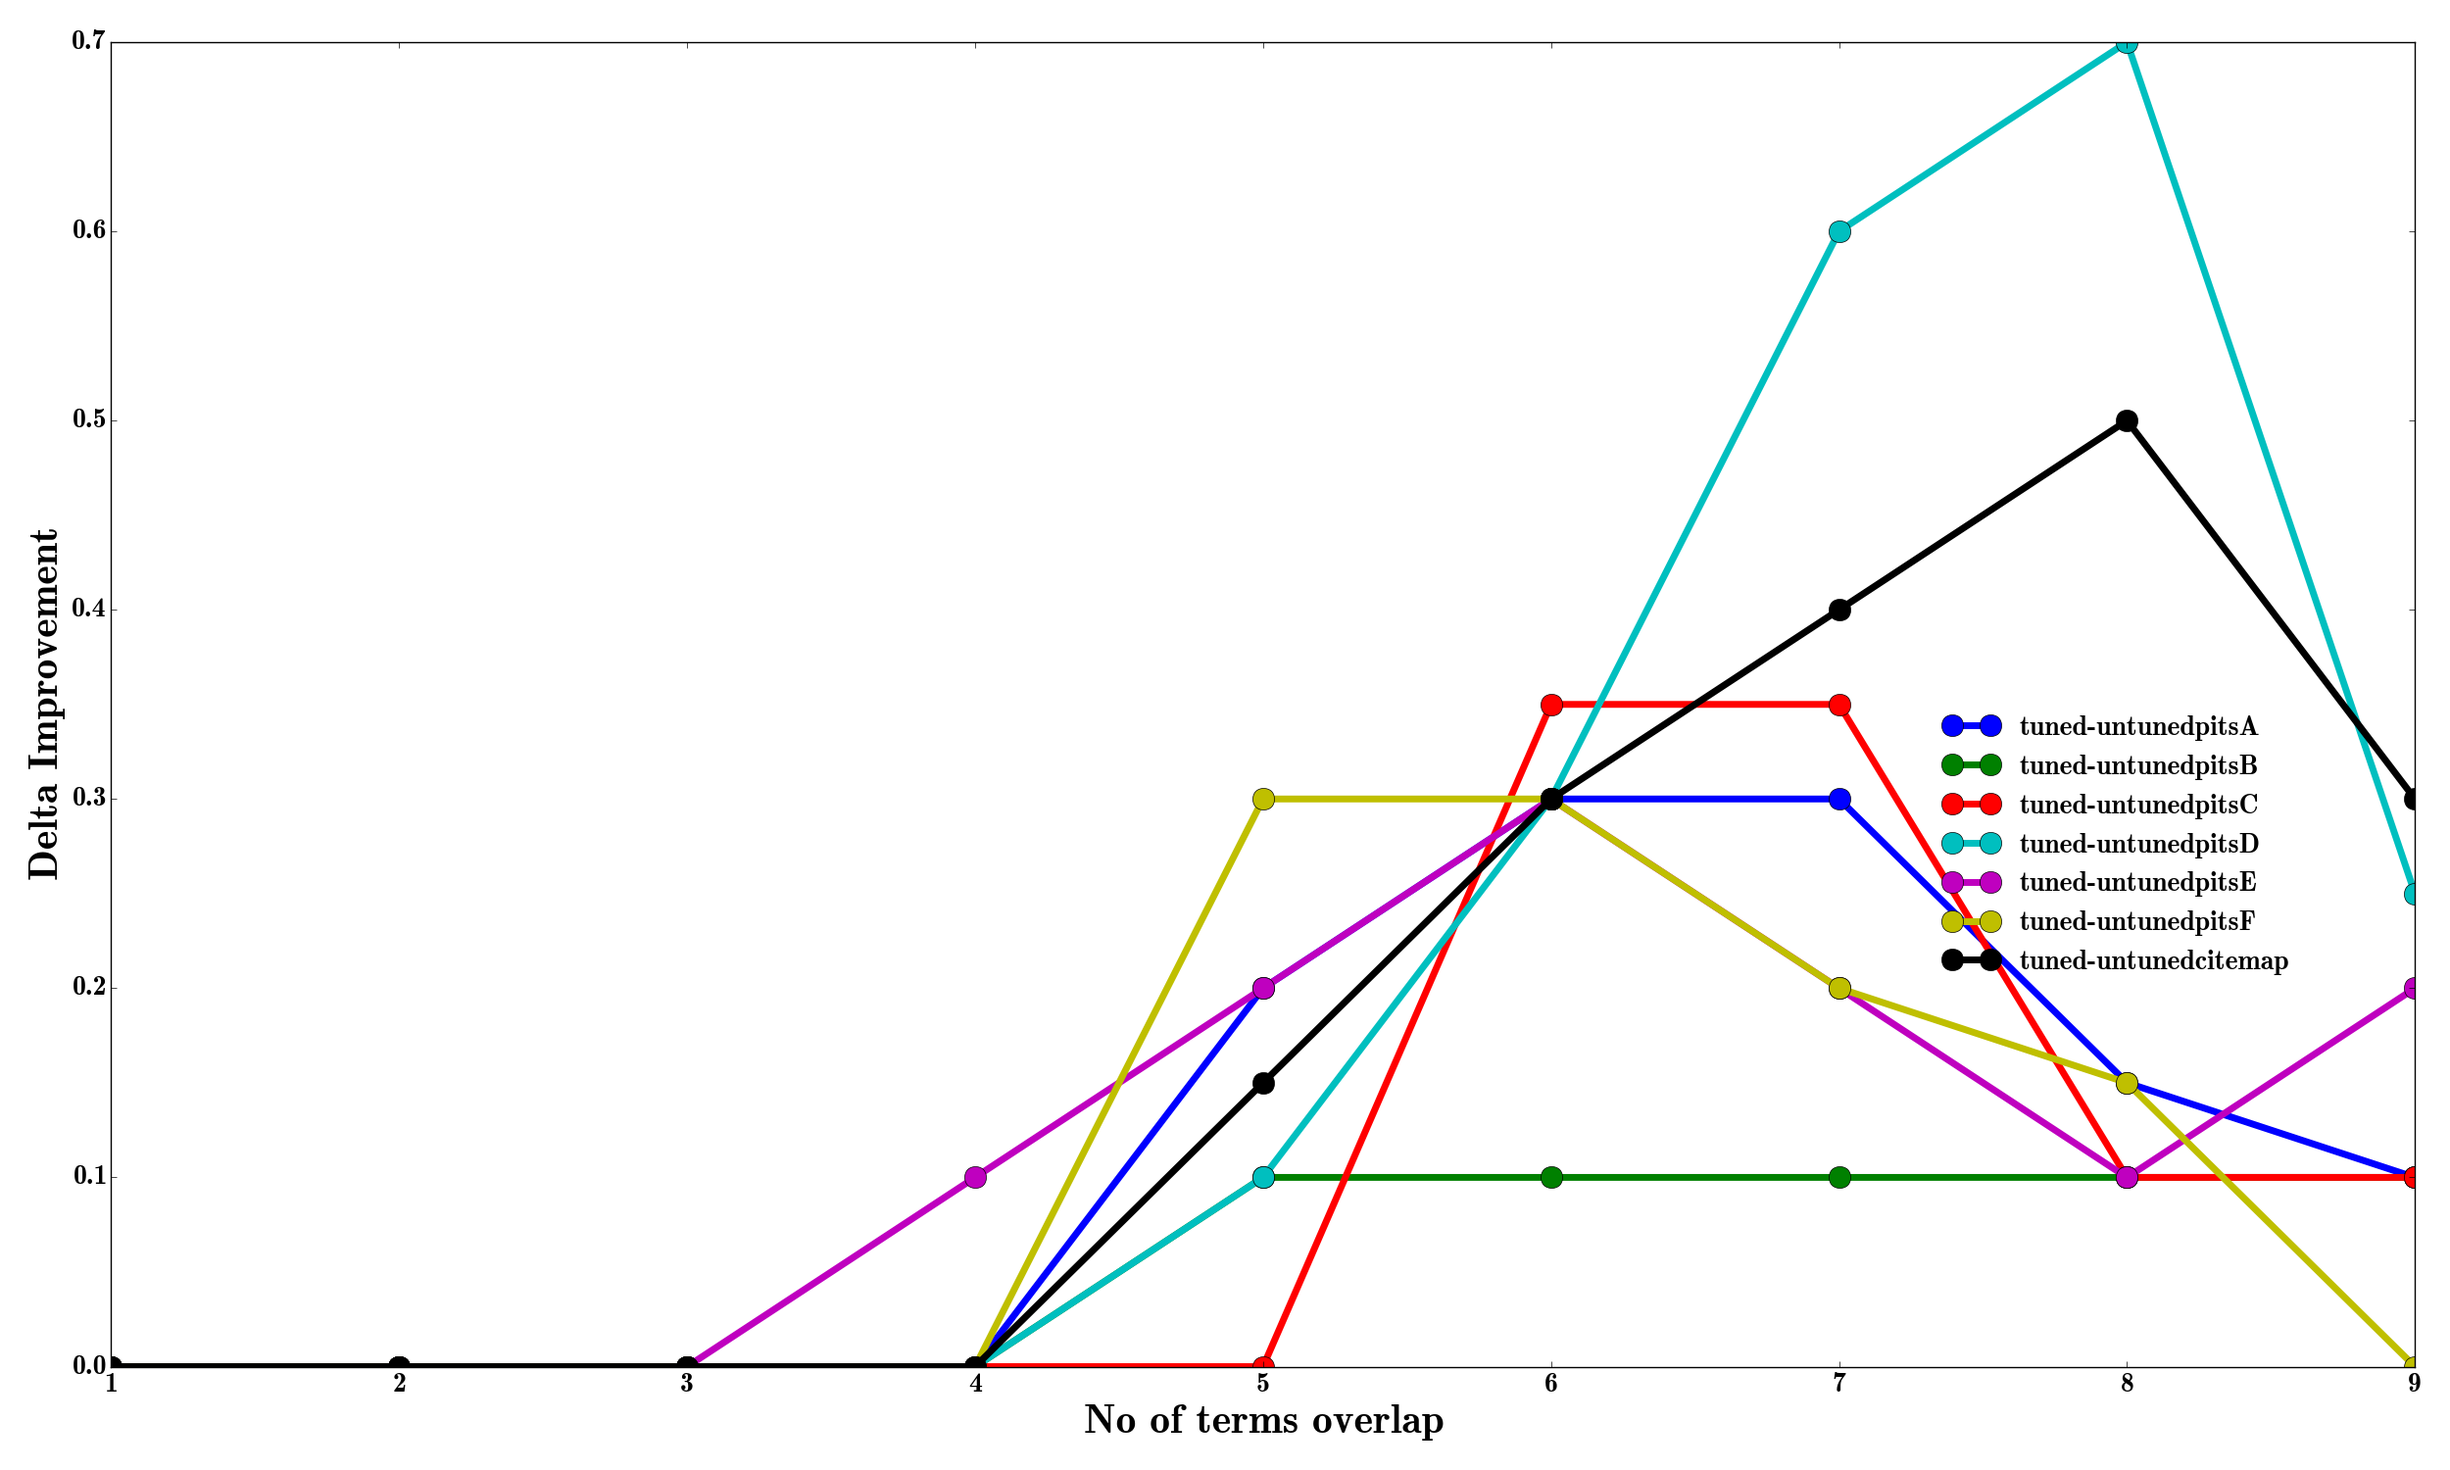
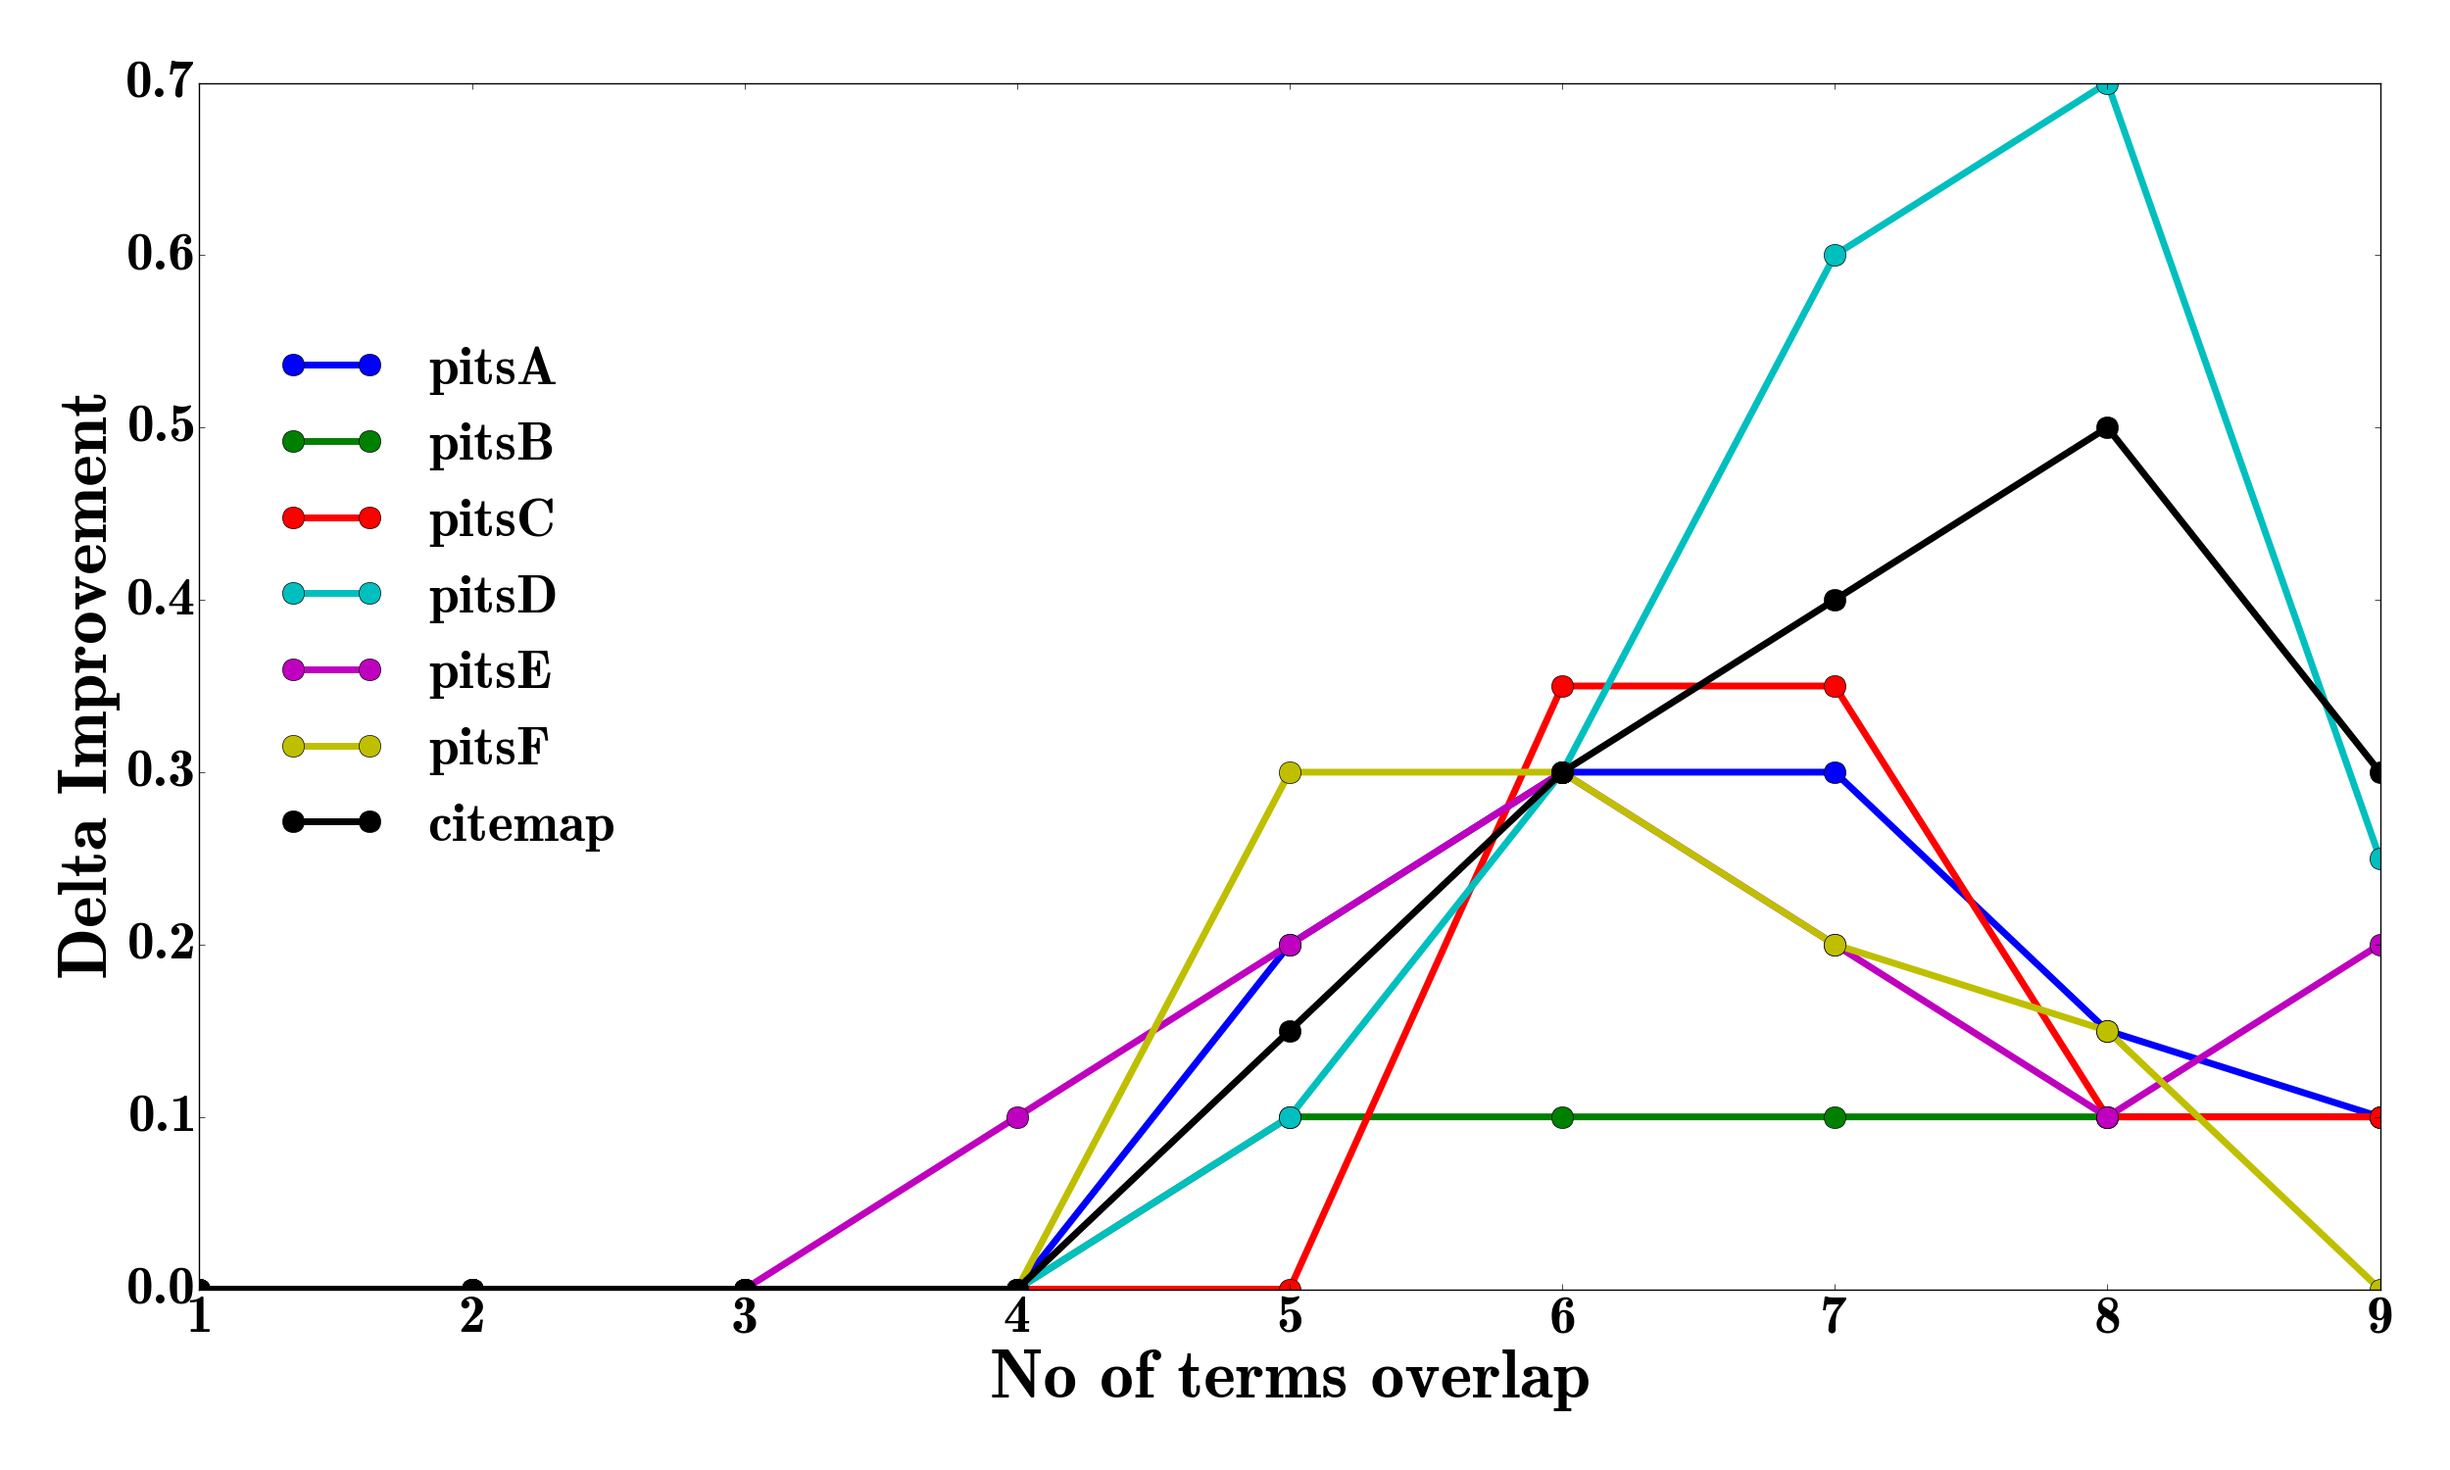
save

diff --git a/src/06-03/draw1.py b/src/06-03/draw1.py
@@ -18,10 +18,10 @@ if __name__ == '__main__':
     labels = [1,2,3,4, 5, 6, 7, 8, 9]
     font = {'family' : 'normal',
             'weight' : 'bold',
-            'size'   : 20}
+            'size'   : 40}
 
     plt.rc('font', **font)
-    paras={'lines.linewidth': 5,'legend.fontsize': 20, 'axes.labelsize': 30, 'legend.frameon': False,'figure.autolayout': True,'figure.figsize': (16,8)}
+    paras={'lines.linewidth': 5,'legend.fontsize': 30, 'axes.labelsize': 50, 'legend.frameon': False,'figure.autolayout': True,'figure.figsize': (16,8)}
     plt.rcParams.update(paras)
     X = range(len(labels))
     plt.figure(num=0, figsize=(25, 15))
@@ -33,12 +33,11 @@ if __name__ == '__main__':
         for lab in labels:
             Y_tuned.append(tuned_F7CR3pop10[file1][lab])
             Y_untuned.append(untuned[file1][lab])
-        for i,x in enumerate(Y_untuned):
-            Y_final.append(Y_tuned[i]-x)
-        line, = plt.plot(X, Y_final, marker='o', markersize=16, label="tuned-untuned" + file1)
+        line, = plt.plot(X, Y_tuned, marker='o', markersize=16, label="tuned_" + file1)
+        plt.plot(X, Y_untuned, linestyle="-.", color=line.get_color(), marker='*', markersize=16, label="untuned_" + file1)
         #plt.plot(X, Y_untuned, linestyle="-.", color=line.get_color(), marker='*', markersize=16, label="untuned_" + file1)
     plt.xticks(X, labels)
     plt.ylabel("Delta Improvement")
     plt.xlabel("No of terms overlap")
-    plt.legend(bbox_to_anchor=(0.95, 0.5), loc=1, ncol = 1, borderaxespad=0.)
-    plt.savefig("tuned_improvement" + ".png")
+    plt.legend(bbox_to_anchor=(0.25, 0.8), loc=1, ncol = 1, borderaxespad=0.)
+    plt.savefig("tunedresults" + ".png")
